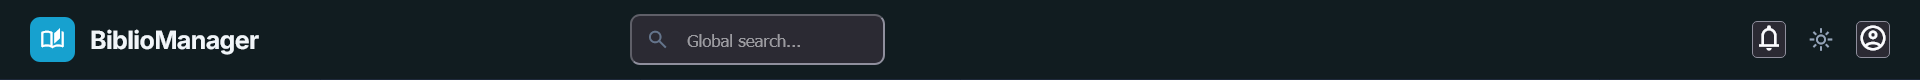
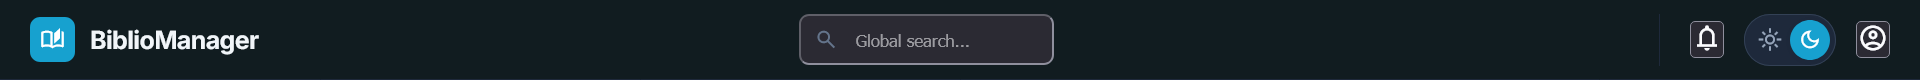
fix: correct header layout to exact Stitch specification
BREAKING CHANGES in header structure:
- Move search from center to right section (Stitch layout)
- Remove border/background from action icon buttons (clean design)
- Convert profile button to avatar div (semantic HTML)
- Add header__right container grouping search + actions

Detailed changes:
- Header layout: 3-column → 2-column (brand left, search+actions right)
- Search position: centered (flex: 1) → right side (fixed in flex container)
- Search width: remains 256px (w-64)
- Notifications button: remove .btn-icon styles (border + bg)
- Profile: <button> → <div class="header__avatar"> with role="img"
- Actions gap: keep 1rem with border-left separator
- Right section gap: 1.5rem between search and actions

Tests updated:
- Split action buttons test into two separate tests
- Update selectors: .btn-icon → .header__icon-button and .header__avatar
- Update ThemeService mock: remove unused computed signals

All 473 unit tests passing, 0 lint errors.

Changed region(s): [[0.3125, 0.175, 0.5625, 0.825], [0.875, 0.175, 0.9688, 0.825]]

diff --git a/apps/web-client/src/app/layout/header/header.component.ts b/apps/web-client/src/app/layout/header/header.component.ts
@@ -25,24 +25,26 @@ import { ThemeToggleComponent } from '@shared/components/theme-toggle';
         <span class="header__title">BiblioManager</span>
       </div>
 
-      <div class="header__search">
-        <span class="material-symbols-outlined search-icon">search</span>
-        <input
-          type="text"
-          class="input-base search-input-padding"
-          placeholder="Global search..."
-          aria-label="Global search"
-        />
-      </div>
+      <div class="header__right">
+        <div class="header__search">
+          <span class="material-symbols-outlined search-icon">search</span>
+          <input
+            type="text"
+            class="input-base search-input-padding"
+            placeholder="Global search..."
+            aria-label="Global search"
+          />
+        </div>
 
-      <div class="header__actions">
-        <button class="btn-icon" aria-label="Notifications">
-          <span class="material-symbols-outlined">notifications</span>
-        </button>
-        <app-theme-toggle />
-        <button class="btn-icon" aria-label="User profile">
-          <span class="material-symbols-outlined">account_circle</span>
-        </button>
+        <div class="header__actions">
+          <button class="header__icon-button" aria-label="Notifications">
+            <span class="material-symbols-outlined">notifications</span>
+          </button>
+          <app-theme-toggle />
+          <div class="header__avatar" role="img" aria-label="User profile">
+            <span class="material-symbols-outlined">account_circle</span>
+          </div>
+        </div>
       </div>
     </header>
   `,
@@ -111,9 +113,15 @@ import { ThemeToggleComponent } from '@shared/components/theme-toggle';
         color: var(--color-text-primary);
       }
 
+      .header__right {
+        display: flex;
+        align-items: center;
+        gap: 1.5rem;
+        flex-shrink: 0;
+      }
+
       .header__search {
         position: relative;
-        flex: 0 0 256px; /* w-64 = 256px - Stitch exact width */
         display: flex;
         align-items: center;
       }
@@ -136,6 +144,7 @@ import { ThemeToggleComponent } from '@shared/components/theme-toggle';
 
       .search-input-padding {
         padding-left: 44px;
+        width: 256px;
       }
 
       .header__actions {
@@ -145,6 +154,69 @@ import { ThemeToggleComponent } from '@shared/components/theme-toggle';
         flex-shrink: 0;
         padding-left: 1.5rem;
         border-left: 1px solid var(--color-border);
+      }
+
+      .header__icon-button {
+        display: inline-flex;
+        align-items: center;
+        justify-content: center;
+        padding: 0.5rem;
+        border: none;
+        background: transparent;
+        color: rgb(100 116 139); /* slate-500 */
+        cursor: pointer;
+        transition: color 150ms ease;
+      }
+
+      :host-context([data-theme='dark']) .header__icon-button {
+        color: rgb(100 116 139); /* slate-500 */
+      }
+
+      .header__icon-button:hover {
+        color: #17a1cf; /* primary */
+      }
+
+      .header__icon-button .material-symbols-outlined {
+        font-size: 20px;
+        width: 20px;
+        height: 20px;
+        font-variation-settings:
+          'FILL' 0,
+          'wght' 400,
+          'GRAD' 0,
+          'opsz' 20;
+      }
+
+      .header__avatar {
+        display: flex;
+        align-items: center;
+        justify-content: center;
+        width: 40px;
+        height: 40px;
+        border-radius: 9999px;
+        background-color: rgb(226 232 240); /* slate-200 */
+        overflow: hidden;
+        cursor: pointer;
+      }
+
+      :host-context([data-theme='dark']) .header__avatar {
+        background-color: rgb(51 65 85); /* slate-700 */
+      }
+
+      .header__avatar .material-symbols-outlined {
+        font-size: 24px;
+        width: 24px;
+        height: 24px;
+        color: rgb(71 85 105); /* slate-600 */
+        font-variation-settings:
+          'FILL' 1,
+          'wght' 400,
+          'GRAD' 0,
+          'opsz' 24;
+      }
+
+      :host-context([data-theme='dark']) .header__avatar .material-symbols-outlined {
+        color: rgb(148 163 184); /* slate-400 */
       }
     `,
   ],

diff --git a/apps/web-client/src/app/layout/header/header.component.spec.ts b/apps/web-client/src/app/layout/header/header.component.spec.ts
@@ -1,17 +1,14 @@
 import { ComponentFixture, TestBed } from '@angular/core/testing';
 import { HeaderComponent } from './header.component.js';
 import { ThemeService } from '@core/services/theme.service';
-import { signal, computed } from '@angular/core';
+import { signal } from '@angular/core';
 
 describe('HeaderComponent', () => {
   let component: HeaderComponent;
   let fixture: ComponentFixture<HeaderComponent>;
   let mockThemeService: {
     theme: ReturnType<typeof signal<'light' | 'dark'>>;
-    isDark: ReturnType<typeof computed<boolean>>;
-    themeIcon: ReturnType<typeof computed<string>>;
-    toggleLabel: ReturnType<typeof computed<string>>;
-    toggleTheme: ReturnType<typeof vi.fn>;
+    setTheme: ReturnType<typeof vi.fn>;
   };
 
   beforeEach(async () => {
@@ -20,13 +17,8 @@ describe('HeaderComponent', () => {
 
     mockThemeService = {
       theme: themeSignal,
-      isDark: computed(() => themeSignal() === 'dark'),
-      themeIcon: computed(() => (themeSignal() === 'dark' ? 'light_mode' : 'dark_mode')),
-      toggleLabel: computed(() =>
-        themeSignal() === 'dark' ? 'Switch to light mode' : 'Switch to dark mode'
-      ),
-      toggleTheme: vi.fn(() => {
-        themeSignal.update((current) => (current === 'light' ? 'dark' : 'light'));
+      setTheme: vi.fn((theme: 'light' | 'dark') => {
+        themeSignal.set(theme);
       }),
     };
 
@@ -107,20 +99,25 @@ describe('HeaderComponent', () => {
   });
 
   describe('Action Buttons', () => {
-    it('should have notifications and profile icon buttons with Material Symbols', () => {
-      const buttons = fixture.nativeElement.querySelectorAll('.btn-icon');
-      expect(buttons.length).toBe(2);
+    it('should have notifications button with Material Symbol icon', () => {
+      const button = fixture.nativeElement.querySelector('.header__icon-button');
+      expect(button).toBeTruthy();
+      expect(button.getAttribute('aria-label')).toBe('Notifications');
 
-      const icons = fixture.nativeElement.querySelectorAll('.btn-icon .material-symbols-outlined');
-      expect(icons.length).toBe(2);
-      expect(icons[0].textContent.trim()).toBe('notifications');
-      expect(icons[1].textContent.trim()).toBe('account_circle');
+      const icon = button.querySelector('.material-symbols-outlined');
+      expect(icon).toBeTruthy();
+      expect(icon.textContent.trim()).toBe('notifications');
     });
 
-    it('should have tooltip title attributes on action buttons', () => {
-      const buttons = fixture.nativeElement.querySelectorAll('.btn-icon');
-      expect(buttons[0].getAttribute('aria-label')).toBe('Notifications');
-      expect(buttons[1].getAttribute('aria-label')).toBe('User profile');
+    it('should have avatar with account_circle icon', () => {
+      const avatar = fixture.nativeElement.querySelector('.header__avatar');
+      expect(avatar).toBeTruthy();
+      expect(avatar.getAttribute('role')).toBe('img');
+      expect(avatar.getAttribute('aria-label')).toBe('User profile');
+
+      const icon = avatar.querySelector('.material-symbols-outlined');
+      expect(icon).toBeTruthy();
+      expect(icon.textContent.trim()).toBe('account_circle');
     });
   });
 
